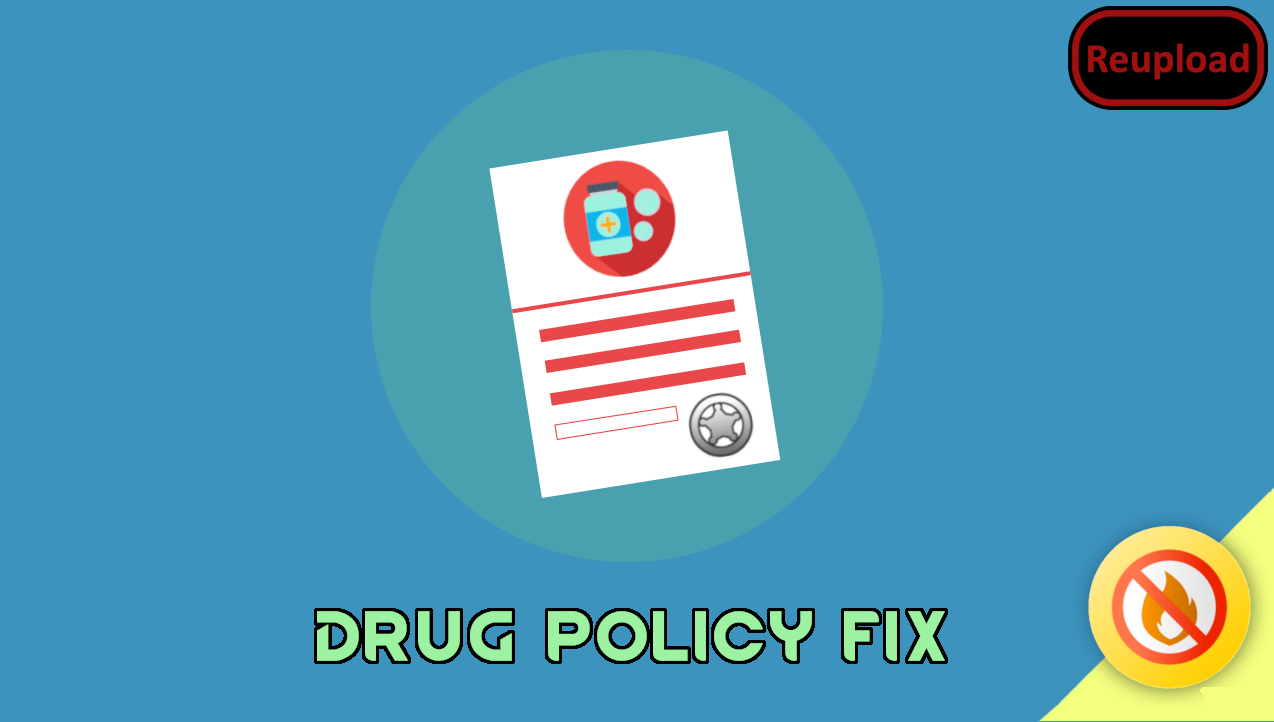
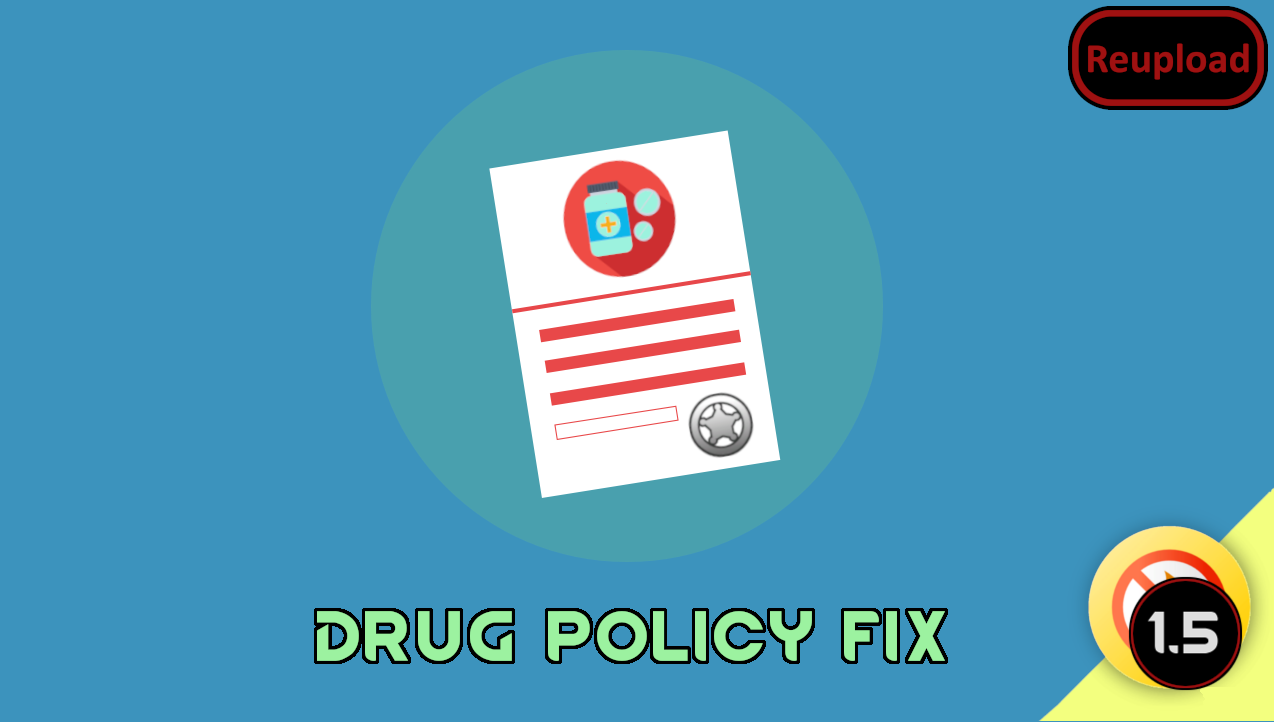
Mod updated for 1.5 and passed autotests Used DeepL to update translations for ChineseSimplified, French

Changed region(s): [[0.8878, 0.7922, 0.9796, 0.9751]]

diff --git a/README.md b/README.md
@@ -49,11 +49,13 @@ Should be Multiplayer compatible.
 
 -  See if the the error persists if you just have this mod and its requirements active.
 -  If not, try adding your other mods until it happens again.
--  Post your error-log using https://steamcommunity.com/workshop/filedetails/?id=818773962]HugsLib and command Ctrl+F12
+-  Post your error-log using https://steamcommunity.com/workshop/filedetails/?id=818773962]HugsLib or the standalone https://steamcommunity.com/sharedfiles/filedetails/?id=2873415404]Uploader and command Ctrl+F12
 -  For best support, please use the Discord-channel for error-reporting.
 -  Do not report errors by making a discussion-thread, I get no notification of that.
 -  If you have the solution for a problem, please post it to the GitHub repository.
+-  Use https://github.com/RimSort/RimSort/releases/latest]RimSort to sort your mods
 
 
 
+https://steamcommunity.com/sharedfiles/filedetails/changelog/2195390245]![Image](https://img.shields.io/github/v/release/emipa606/DrugPolicyFix?label=latest%20version&style=plastic&color=9f1111&labelColor=black)
 
